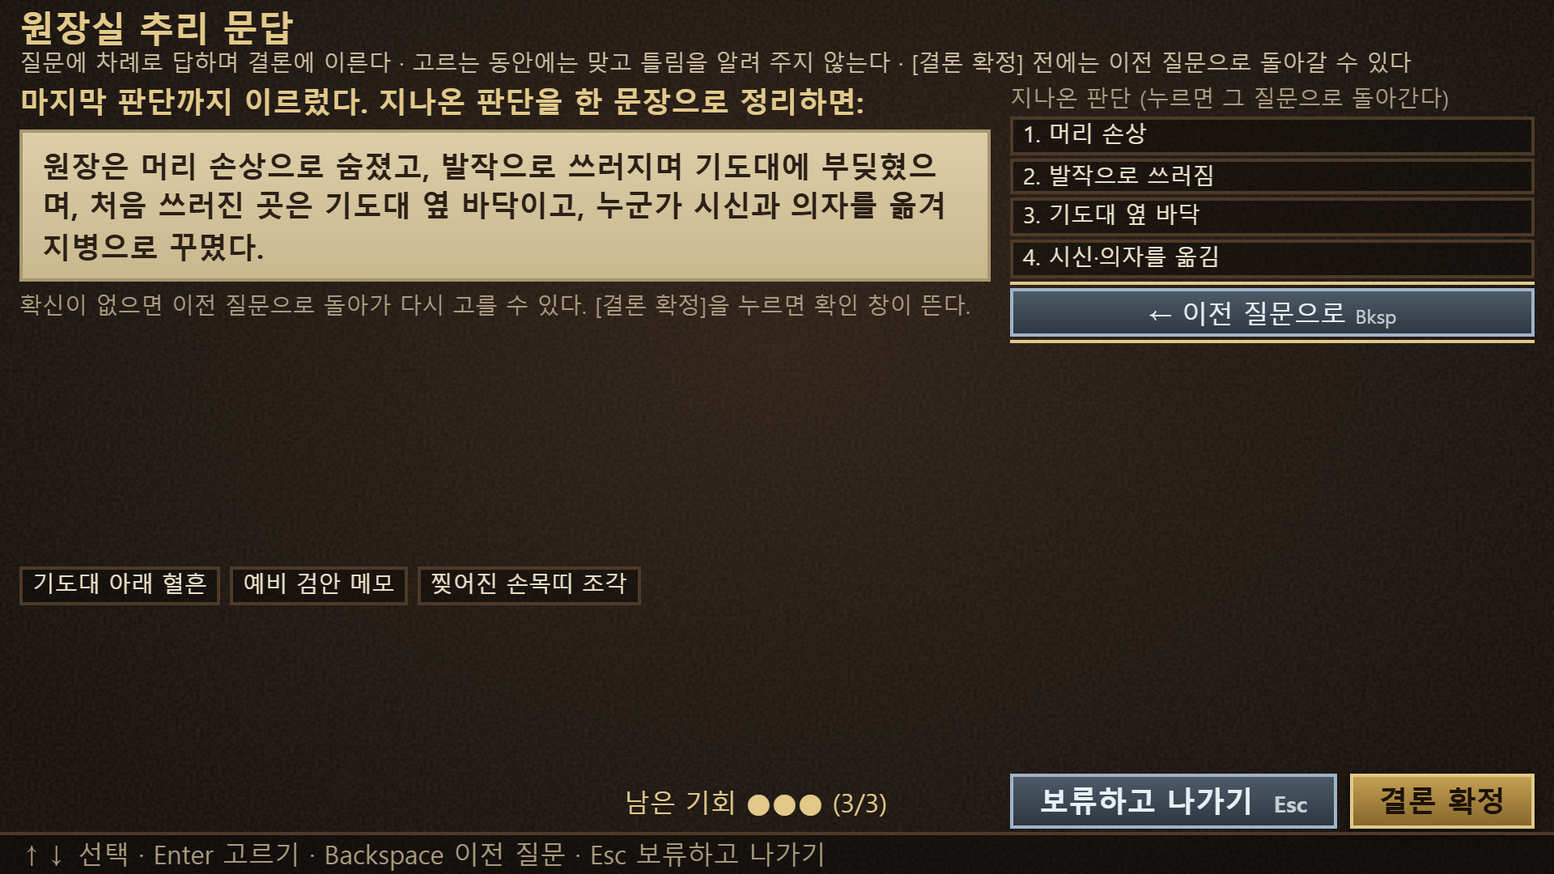
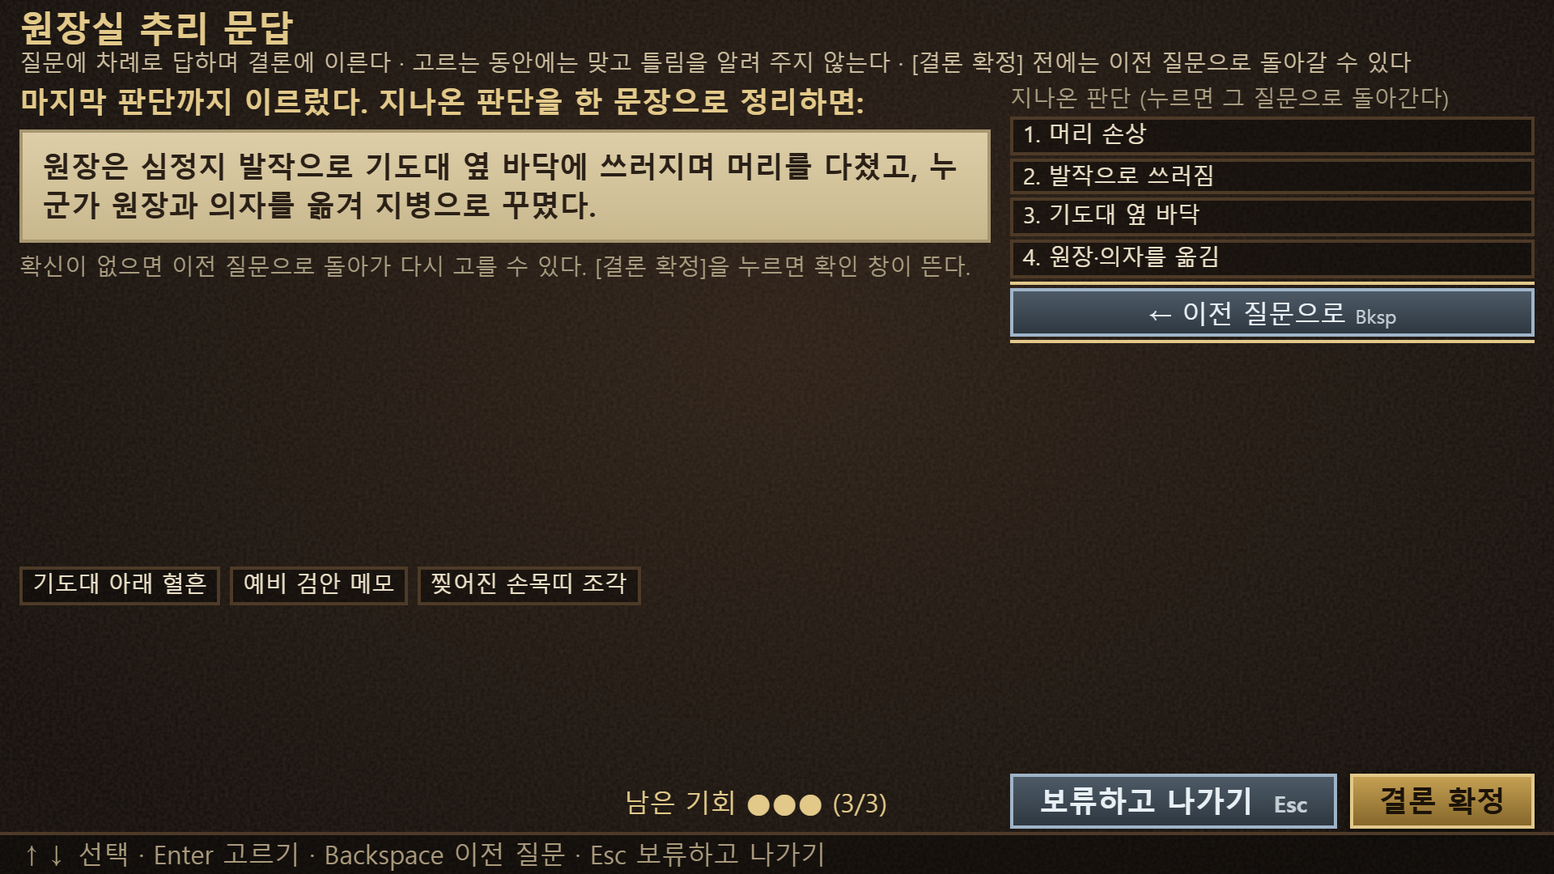
P01 "시신" 단정 제거와 결론 어순 정리, 엔딩 개수 검사(A1/B7/C12/D44)

Changed region(s): [[0.0, 0.1528, 0.7188, 0.3667]]

diff --git a/tools/test-e2e.ts b/tools/test-e2e.ts
@@ -393,12 +393,12 @@ check((await pz()).includes('질문 2.') && (await page.locator('#puzzle .qt').c
 check((await page.locator('#puzzle .warn, #puzzle .hint-t, #puzzle .ok, #puzzle .bad').count()) === 0 && !/정답|오답|맞았|틀렸/.test(await pz()), '[P01] 문답 도중에는 맞고 틀림을 알리지 않는다');
 await press('Backspace'); await wait(80);
 check((await pz()).includes('질문 1.') && (await page.locator('#puzzle .qt').count()) === 0, '[P01] Backspace(이전 질문으로)로 되돌아갈 수 있다');
-// 마우스: 틀린 길 (머리 손상 → 발작 → 기도대 옆 바닥 → 시신·의자를 옮김). 지나온 판단을 눌러 되돌아갈 수도 있다.
+// 마우스: 틀린 길 (머리 손상 → 발작 → 기도대 옆 바닥 → 원장·의자를 옮김). 지나온 판단을 눌러 되돌아갈 수도 있다.
 await page.locator('#puzzle [data-choice="c1_head"]').click(); await page.locator('#puzzle [data-choice="c2_seizure"]').click();
 await page.locator('#puzzle .qt').nth(0).click(); await wait(60);
 check((await pz()).includes('질문 1.'), '[P01] 지나온 판단(1번)을 누르면 그 질문으로 돌아간다');
 await page.locator('#puzzle [data-choice="c1_head"]').click(); await page.locator('#puzzle [data-choice="c2_seizure"]').click(); await page.locator('#puzzle [data-choice="c3_altar"]').click(); await page.locator('#puzzle [data-choice="c4_moved"]').click(); await wait(80);
-check((await page.locator('#puzzle [data-submit]:not([disabled])').count()) === 1 && (await page.locator('#puzzle .qconc').innerText()).includes('발작으로 쓰러지며') && (await page.locator('#puzzle .qconc').innerText()).includes('시신과 의자를 옮겨'), '[P01] 마지막 판단에 이르면 지나온 판단이 한 문장 결론으로 보이고 확정할 수 있다');
+check((await page.locator('#puzzle [data-submit]:not([disabled])').count()) === 1 && (await page.locator('#puzzle .qconc').innerText()).includes('심정지 발작으로') && (await page.locator('#puzzle .qconc').innerText()).includes('원장과 의자를 옮겨'), '[P01] 마지막 판단에 이르면 지나온 판단이 한 문장 결론으로 보이고 확정할 수 있다');
 await shot('stage4_p01_conclusion');
 await page.locator('#puzzle [data-submit]').click();
 check((await page.locator('#puzzle .pz-ov').innerText()).includes('이 결론을 확정할까요?') && (await page.locator('#puzzle .pz-ov').innerText()).includes('남은 기회 3/3'), '[P01] 확정 전에 확인 창: 이 결론을 확정할까요? 남은 기회 3/3');
@@ -418,7 +418,7 @@ await cw("cw.ui.puzzle('P01_scene_rebuild')"); await page.waitForSelector('#puzz
 check((await page.locator('#puzzle .qt').count()) === 4 && (await page.locator('#puzzle .pz-att').innerText()).includes('2/3'), '[P01] 다시 열면 지나온 판단과 남은 기회(2/3)가 그대로다');
 await page.mouse.move(5, 5);
 await placeCorrect(page, 'P01_scene_rebuild');
-check((await page.locator('#puzzle .qconc').innerText()).includes('몸싸움 중 밀려') && (await page.locator('#puzzle .qconc').innerText()).includes('지병으로 꾸몄다'), '[P01] 정답 길의 결론 문장');
+check((await page.locator('#puzzle .qconc').innerText()).includes('몸싸움을 하다 밀려') && (await page.locator('#puzzle .qconc').innerText()).includes('지병으로 꾸몄다'), '[P01] 정답 길의 결론 문장');
 await confirm(page);
 check(await cw<boolean>("cw.state.solvedPuzzleIds.includes('P01_scene_rebuild') && cw.state.flags.includes('flag_scene_rebuilt') && cw.state.flags.includes('puzzle_done:P01_scene_rebuild')"), '[P01] 정답 → 해결 (puzzle_done 플래그)');
 check(await cw<boolean>("cw.state.verifiedEvidenceIds.includes('E02_altar_blood') && cw.state.verifiedEvidenceIds.includes('E03_preliminary_exam')"), '[P01] 해결 → E02·E03 검증');
@@ -426,7 +426,7 @@ await press('Enter'); await cw("cw.openDialogue('mono_p01_solved')"); // (시험
 await page.waitForSelector('#dialogue');
 await wait(60); await press('Enter');
 const mid = await page.locator('#dialogue .text').innerText();
-check(mid.includes('누군가 시신을 옮겼다') && !mid.includes('정하늘'), '[P01] 중간 결론만: 누군가 시신을 옮겼다 (옮긴 사람·정하늘은 확정하지 않는다)');
+check(mid.includes('누군가 원장을 옮겼다') && !mid.includes('정하늘'), '[P01] 중간 결론만: 누군가 원장을 옮겼다 (옮긴 사람·정하늘은 확정하지 않는다)');
 await mash();
 
 await teleport(360); await wait(60); await press('Enter');
@@ -850,6 +850,11 @@ await page.locator('#report [data-tg="external"]').click(); await wait(60);
 const sum = await page.locator('#report').innerText();
 check(sum.includes('외부 수사기관에도 보고한다') && sum.includes('기도대 충돌로 인한 후두부 손상'), '[보고서] 마지막 쪽: 보고 대상 선택 + 완성된 문장으로 읽히는 미리보기');
 check(!/정답|오답|해결|엔딩|맞았|틀렸/.test(await page.locator('#report .rpaper').innerText()), '[보고서] 미리보기는 정답·해결 여부·예상 엔딩을 암시하지 않는다');
+{ const sc = await page.locator('#report .rprevfull').evaluate((e) => { const el = e as HTMLElement; const over = el.scrollHeight > el.clientHeight; el.scrollTop = 0; return { over, ch: el.clientHeight, sh: el.scrollHeight, bottom: el.getBoundingClientRect().bottom <= (el.closest('.rpaper') as HTMLElement).getBoundingClientRect().bottom }; });
+  await press('PageDown'); await press('PageDown'); await press('PageDown');
+  const end = await page.locator('#report .rprevfull').evaluate((e) => { const el = e as HTMLElement; return el.scrollTop + el.clientHeight >= el.scrollHeight - 2; });
+  check(sc.bottom && (!sc.over || end) && (await page.locator('#report .rprevfull').innerText()).includes('질문 D.'), '[보고서] 미리보기는 종이 안에 들어가고, 넘치면 스크롤되어 질문 D 까지 읽힌다'); await page.locator('#report .rprevfull').evaluate((e) => { (e as HTMLElement).scrollTop = 0; });
+  check(!/와\(과\)|\(으\)로|은\(는\)|을\(를\)/.test(await page.locator('#report .rprevfull').innerText()), '[보고서] 미리보기에 조사가 둘 다 나오지 않는다'); }
 await noIds('[씬 7] 요약');
 await page.locator('#report [data-submit]').click(); await wait(80);
 check((await page.locator('#report .rov').innerText()).includes('제출할까요'), '[보고서] 제출 전에 확인 창');

diff --git a/tools/d-shots.ts b/tools/d-shots.ts
@@ -51,7 +51,7 @@ await page.locator('#report [data-filter="record"]').click(); await wait(100); a
 await page.locator('#report [data-stamp]').click(); await wait(150); await shot('report_stamped');
 await cw(`(() => { const G = { claim_b: [['E04_wristband_fragment', 'E08_miran_revised'], ['E05_access_log']], claim_c: [['E07_report_revision', 'E08_miran_revised'], ['E06_torn_sleeve']], claim_d: [['E12_ledger', 'E14_belongings_diary'], ['E15_transport_manifest']] }; for (const [id, [sup, reb]] of Object.entries(G)) cw.saveConclusion(cw.state, id, cw.claims.find((x) => x.claimId === id).hypotheses.find((h) => h.isCorrect).id, sup, reb); })()`);
 await key('Tab'); await key('Escape'); await wait(200); // 수첩을 열었다 닫으면 보고서가 저장된 결론을 다시 읽는다
-await page.locator('#report [data-pg="4"]').click(); await wait(200); await shot2('report_submit_page');
+await page.locator('#report [data-pg="4"]').click(); await wait(200); await shot2('report_submit_page'); await page.locator('#report .rprevfull').evaluate((e) => { (e as HTMLElement).scrollTop = 9999; }); await wait(150); await shot2('report_submit_scrolled');
 await page.locator('#report [data-tg="external"]').click(); await wait(150);
 await page.locator('#report [data-submit]').click(); await wait(200); console.log('MSG', await page.locator('#report .rmsg').innerText()); await shot('report_confirm');
 await page.locator('#report [data-cf="yes"]').click(); await page.waitForSelector('#ending'); await wait(400);

diff --git a/tests/ending.test.ts b/tests/ending.test.ts
@@ -39,6 +39,13 @@ function expected(mask: number, secured: boolean, external: boolean): string {
 }
 
 describe('엔딩 64조합 (해결 16 × 보존 2 × 보고 2)', () => {
+  it('엔딩별 개수는 A 1 / B 7 / C 12 / D 44 (직접 센다)', () => {
+    const count: Record<string, number> = { ending_a: 0, ending_b: 0, ending_c: 0, ending_d: 0 };
+    let total = 0;
+    for (let mask = 0; mask < 16; mask++) for (const secured of [false, true]) for (const external of [false, true]) { count[resolveEnding(build(mask, secured, external)).id]++; total++; }
+    expect(total).toBe(64);
+    expect(count).toEqual({ ending_a: 1, ending_b: 7, ending_c: 12, ending_d: 44 });
+  });
   const tally: Record<string, number> = {};
   for (let mask = 0; mask < 16; mask++) for (const secured of [false, true]) for (const external of [false, true]) {
     it(`solved=${mask.toString(2).padStart(4, '0')} secured=${secured} external=${external}`, () => {

diff --git a/tools/validate-data.ts b/tools/validate-data.ts
@@ -155,7 +155,7 @@ for (const p of puzzles) {
       if (n.choices.length < 2) err(`${p.id}/${nid}: 선택지가 둘 이상 있어야 한다`);
       for (const c of n.choices) {
         if (c.next && !q.nodes[c.next]) err(`${p.id}/${c.id}: next ${c.next} 없음`);
-        if (!c.judge || !c.reason || !c.says || !c.short || !c.quote) err(`${p.id}/${c.id}: judge·reason·says·short·quote 필요`);
+        if (!c.judge || !c.reason || c.says === undefined || !c.short || !c.quote) err(`${p.id}/${c.id}: judge·reason·says·short·quote 필요`);
         if (!evidenceById.has(c.source) && !stmtIds.has(c.source)) err(`${p.id}/${c.id}: 출처 ${c.source} 는 단서도 진술도 아님`);
         if (!p.correctSlots.path.includes(c.id) && !c.conflict && onPath.has(nid)) err(`${p.id}/${c.id}: 정답 길의 질문에 있는 오답 선택지에는 충돌 문장이 필요하다`);
       }

diff --git a/tests/followup2.test.ts b/tests/followup2.test.ts
@@ -105,7 +105,7 @@ describe('원장실 의자 조사 → P01 이동 대상 근거', () => {
     expect(isExamined(chair(), s)).toBe(true); expect(showsSparkle(chair(), s)).toBe(false);
     expect(hasFlag(s, 'chair_checked')).toBe(true);
   });
-  it('의자 끌린 자국 선택지의 근거는 의자 관찰 카드, 마지막 판단은 시신과 의자를 옮겼다', () => {
+  it('의자 끌린 자국 선택지의 근거는 의자 관찰 카드, 마지막 판단은 원장과 의자를 옮겼다', () => {
     const p = puzzles.find((q) => q.id === 'P01_scene_rebuild')!;
     expect(p.quiz!.nodes.q4.choices.find((x) => x.id === 'c4_moved')!.source).toBe('han_o_chair');
     expect(p.correctSlots.path.at(-1)).toBe('c4_moved');

diff --git a/docs/이전계획.md b/docs/이전계획.md
@@ -465,9 +465,14 @@ ConfessionWard_v1.0_web/
 - **시험·도구**: `docs/퍼즐_근거표.md`·`tools/puzzle-evidence-table.ts` 는 조각 → 출처 → 원문 인용 구조로 바꾸고 원문 인용 검사를 유지한다(조각 라벨의 " — " 앞이 인용, "…" 로 이은 조각은 각각). 씬 점프·`buildProgress` 는 `fail: [퍼즐 ID]` 옵션으로 검증 실패 상태를 만들고, F9 디버그 메뉴에 "P05 검증 실패 상태로 씬 6"(`failP05`)을 더했다. e2e 는 새 UI(조각·바탕화면·트리·확인 창·보류·검증 실패)로, `tests/progression.test.ts` 는 "P05 검증 실패 → 정하늘 등장 → 보고서" 경로를 더했다. 퍼즐 화면 스크린샷: `tools/puzzle-shots.ts` → `docs/screenshots/c_puzzle_*.png`.
 
 ### 11.13 후속: P01 추리 문답 · 퍼즐 머리말 · P05 보류 안내 · 최종 보고서 재설계 · 다시 추리하기 (사용자 결정 2026-11-13)
-- **P01 → 추리 문답**(`layout: quiz`, `puzzles.json` 의 `quiz`): 조각을 평면도 칸에 놓던 방식(글자 맞추기)을 질문에 "판단 + 이유"로 답하는 갈래 구조로 바꿨다. 판정은 `src/core/puzzle.ts`(`quizWalk`·`isAnswerComplete`·`isCorrectAnswer`·`submitPuzzle`): 답 = path 칸에 지나온 선택지 ID 들. 마지막 판단까지 가야 [결론 확정]이 눌린다. 충돌 문장 = 처음 틀린 판단의 `conflict`(자료 이름만), 2번째 오답의 후보 제거 = `distractors[0]`(`*:c2_seizure`, 제거된 선택지를 골랐던 길은 그 질문까지 되돌린다). 결론 문장 = `subject` + 지나온 선택지의 `says`. 오답 길도 막다른 길 없이 끝난다(지병 → 위치 → 혈흔, 사인 미정 → 위치). 선택지는 모두 출처·원문 인용이 있고 `docs/퍼즐_근거표.md` 자동 검사에 걸린다. 질문 4개 + 오답 갈래 3개. 무작위 3번 안에 정답 결론에 이를 확률 2.72%(첫 시도 0.93%, 목표 5% 미만).
+- **P01 → 추리 문답**(`layout: quiz`, `puzzles.json` 의 `quiz`): 조각을 평면도 칸에 놓던 방식(글자 맞추기)을 질문에 "판단 + 이유"로 답하는 갈래 구조로 바꿨다. 판정은 `src/core/puzzle.ts`(`quizWalk`·`isAnswerComplete`·`isCorrectAnswer`·`submitPuzzle`): 답 = path 칸에 지나온 선택지 ID 들. 마지막 판단까지 가야 [결론 확정]이 눌린다. 충돌 문장 = 처음 틀린 판단의 `conflict`(자료 이름만), 2번째 오답의 후보 제거 = `distractors[0]`(`*:c2_seizure`, 제거된 선택지를 골랐던 길은 그 질문까지 되돌린다). 결론 문장 = `subject` + 지나온 선택지의 `says`. 오답 길도 막다른 길 없이 끝난다(지병 → 위치 → 혈흔, 사인 미정 → 위치). 선택지는 모두 출처·원문 인용이 있고 `docs/퍼즐_근거표.md` 자동 검사에 걸린다. 질문 4개 + 오답 갈래 3개. 정답 결론은 “원장은 누군가와 몸싸움을 하다 밀려 기도대 옆 바닥에 쓰러지며 머리를 다쳤고, 누군가 원장과 의자를 옮겨 지병으로 꾸몄다.”(“시신”으로 단정하지 않는다, 사용자 결정 2026-11-13). 무작위 3번 안에 정답 결론에 이를 확률 2.72%(첫 시도 0.93%, 목표 5% 미만).
 - **퍼즐 머리말**: 안내 문구(`info`)를 제목 아래 한 줄로 내려 줄바꿈되게 했다(`.ptitle` / `.psub` 는 block, 본문 영역 top 26 px·height 146 px).
 - **P05 보류 안내**: P05 를 보류하고 나가면 처음 한 번 독백(`mono_p05_hold`: "이 장부를 정리하기 전에는 여기서 더 알아낼 수 없다…")으로 알리고, 지하에서 계단으로 올라가려 할 때 P05 가 미결이면 같은 독백을 한 번 더 보여 준다(올라가는 것은 막지 않는다). 플래그 `p05_hold_seen`·`p05_stairs_seen`.
 - **최종 보고서 재설계**(`src/ui/report.ts`): 종이 한 장에 질문 하나(위쪽 탭 A~D + 보고 대상·제출), 가설은 문장 빈칸(`claims.json` 의 `stem`)에서 후보 문장 목록으로 고르고, 근거 2칸·예상 반론 1칸에 왼쪽 단서 서랍의 카드를 끌어다(또는 클릭·키보드로) 꽂는다. 카드는 유형(물증·기록·증언) 모양이 다르고, 미검증·검증 실패·맥락 단서는 꽂히지 않고 이유만 한 줄로 보인다. 질문마다 [작성 완료 도장]이 `saveConclusion` 으로 결론을 저장한다(정답 여부와 무관). 마지막 쪽은 보고 대상 + 완성된 문장 미리보기 + 제출 확인 창. 판정 규칙(이전계획 8장)과 `DeductionResolver`·`EndingResolver` 는 그대로다. 수첩의 질문 탭은 그대로 두고 같은 상태를 읽고 쓴다.
   - **기존 결함 수정**: P05 가 검증 실패면 질문 D 가 열리지 않는데 예전 보고서는 네 질문 모두 저장해야 제출할 수 있어 막혔다. 지금은 열린 질문만 도장을 요구하고 열리지 않은 질문은 비워 둔 채 제출된다.
 - **다시 추리하기**(`ExploreScene.retryReport`): 모든 엔딩 끝에 "다시 추리하기"가 있고, 같은 수사 상태(단서·검증 상태·퍼즐 검증 실패·증거 보존 선택 그대로)로 이전 결론이 채워진 보고서가 다시 열린다. 해결하지 못한 질문과 관련된 단서는 서랍·수첩에서 먼저 보인다. 엔딩 D 전용이던 "보고서 다시 쓰기"(씬 7 시작 시점 되돌리기)는 이것으로 합쳤다. 다시 제출한 결과는 플레이 기록(개발용, `PlayLog.reports`)에 회차별로 남는다.
+
+### 11.14 후속 정리 (사용자 결정 2026-11-13)
+- **조사 고르기**: `src/core/josa.ts` 의 `josa(word, kind)`·`withJosa`·`fixJosa` (받침 유무, ㄹ 받침은 "로", 「」·‘’·따옴표·괄호는 건너뜀, 숫자·알파벳 끝 처리). `fmtName`(화면에 내는 모든 문장)과 퍼즐 충돌 문장이 데이터의 "은(는)·와(과)·(으)로" 표기를 하나로 고쳐 내고, 보고서 미리보기는 `josa` 로 직접 붙인다. 단위 테스트 `tests/josa.test.ts`.
+- **보고서 미리보기**: 제출 쪽을 세로 flex 로 바꿔 미리보기가 남는 높이를 모두 쓰고 넘치면 스크롤된다(마우스 휠·PageUp/PageDown, "더 있다" 안내).
+- **엔딩 개수 검사**: `tests/ending.test.ts` 가 64조합의 엔딩별 개수 A 1 / B 7 / C 12 / D 44 를 직접 센다.

diff --git a/docs/퍼즐_근거표.md b/docs/퍼즐_근거표.md
@@ -6,7 +6,7 @@
 
 결론 기회 3번. 정답 길: c1_head → c2_fight → c3_altar → c4_moved
 
-정답 결론: 원장은 머리 손상으로 숨졌고, 몸싸움 중 밀려 기도대에 부딪혔으며, 처음 쓰러진 곳은 기도대 옆 바닥이고, 누군가 시신과 의자를 옮겨 지병으로 꾸몄다.
+정답 결론: 원장은 누군가와 몸싸움을 하다 밀려 기도대 옆 바닥에 쓰러지며 머리를 다쳤고, 누군가 원장과 의자를 옮겨 지병으로 꾸몄다.
 
 | 질문 | 선택지 (판단 — 이유) | 정답? | 출처 | 원문 인용 | 틀렸을 때 충돌 문장 |
 |---|---|---|---|---|---|
@@ -20,15 +20,15 @@
 | q3 원장이 처음 쓰러진 곳은 어디인가? | 기도대 옆 바닥 — 예비 검안이 발견 위치를 그렇게 적었다. | 정답 길 | E03_preliminary_exam | “발견 위치: 기도대 옆 바닥” |  |
 | q3 원장이 처음 쓰러진 곳은 어디인가? | 책상 의자 — 백선우는 의자에 앉은 채 발견됐다고 했다. | 오답 | baek_s_natural | “집무실 의자에 앉으신 채 발견됐고” | 「예비 검안 메모」의 발견 위치와 맞지 않는다. |
 | q3 원장이 처음 쓰러진 곳은 어디인가? | 책상 앞 바닥 — 손목띠 조각이 책상 아래에서 나왔다. | 오답 | E04_wristband_fragment | “원장 책상 아래에서 나온 찢어진 환자 손목띠 조각” | 「기도대 아래 혈흔」은(는) 이 위치와 맞지 않는다. |
-| q4 그런데 “의자에 앉은 채 발견됐다”는 설명은 어떻게 된 것인가? | 누군가 시신과 의자를 옮겨 놓았다 — 의자 다리 아래 바닥이 기도대 쪽에서부터 길게 긁혀 있다. | 정답 길 | han_o_chair | “의자 다리 아래 바닥이 기도대 쪽에서부터 길게 긁혀 있다” |  |
+| q4 그런데 “의자에 앉은 채 발견됐다”는 설명은 어떻게 된 것인가? | 누군가 원장과 의자를 옮겨 놓았다 — 의자 다리 아래 바닥이 기도대 쪽에서부터 길게 긁혀 있다. | 정답 길 | han_o_chair | “의자 다리 아래 바닥이 기도대 쪽에서부터 길게 긁혀 있다” |  |
 | q4 그런데 “의자에 앉은 채 발견됐다”는 설명은 어떻게 된 것인가? | 원장이 스스로 의자까지 가서 앉았다 — 예비 검안은 “미약 호흡”을 적었다. | 오답 | E03_preliminary_exam | “의식없음, 미약 호흡” | 「예비 검안 메모」의 “의식없음” 기록과 맞지 않는다. |
 | q4 그런데 “의자에 앉은 채 발견됐다”는 설명은 어떻게 된 것인가? | 백선우가 발견 위치를 착각했다 — 예비 검안과 백선우의 진술이 가리키는 위치가 다르다. | 오답 | baek_s_natural | “집무실 의자에 앉으신 채 발견됐고” | 의자 아래 바닥의 긁힌 자국({player}의 관찰)과 맞지 않는다. |
 | qa1 원장은 어디서 숨졌나? | 책상 의자 — 백선우는 의자에 앉은 채 발견됐다고 했다. | 오답 | baek_s_natural | “집무실 의자에 앉으신 채 발견됐고” |  |
 | qa1 원장은 어디서 숨졌나? | 기도대 옆 바닥 — 예비 검안이 발견 위치를 그렇게 적었다. | 오답 | E03_preliminary_exam | “발견 위치: 기도대 옆 바닥” |  |
 | qa2 그렇다면 기도대 아래 혈흔은 어떻게 설명하나? | 쓰러지며 다쳐서 생긴 흔적이다 — 후두부 열상과 출혈 흔적이 기록돼 있다. | 오답 | E03_preliminary_exam | “후두부 열상 및 출혈 흔적” |  |
 | qa2 그렇다면 기도대 아래 혈흔은 어떻게 설명하나? | 아직 이유를 알 수 없다 — 닦이지 않은 혈흔이 남아 있을 뿐이다. | 오답 | E02_altar_blood | “놋쇠 기도대 받침 아래에 닦이지 않은 혈흔이 남아 있다” |  |
-| qu1 그렇다면 원장의 시신은 처음 어디에 있었나? | 책상 의자 — 백선우는 의자에 앉은 채 발견됐다고 했다. | 오답 | baek_s_natural | “집무실 의자에 앉으신 채 발견됐고” |  |
-| qu1 그렇다면 원장의 시신은 처음 어디에 있었나? | 기도대 옆 바닥 — 예비 검안이 발견 위치를 그렇게 적었다. | 오답 | E03_preliminary_exam | “발견 위치: 기도대 옆 바닥” |  |
+| qu1 그렇다면 원장은 처음 어디에 있었나? | 책상 의자 — 백선우는 의자에 앉은 채 발견됐다고 했다. | 오답 | baek_s_natural | “집무실 의자에 앉으신 채 발견됐고” |  |
+| qu1 그렇다면 원장은 처음 어디에 있었나? | 기도대 옆 바닥 — 예비 검안이 발견 위치를 그렇게 적었다. | 오답 | E03_preliminary_exam | “발견 위치: 기도대 옆 바닥” |  |
 
 ## P02 야간 동선 시간 배열 (씬 4)
 

diff --git a/docs/기획서_보정판.md b/docs/기획서_보정판.md
@@ -338,8 +338,8 @@
 1. 원장의 직접 사인은? — 정답: 머리 손상 (후두부 열상). 오답: 지병(백선우의 말), 아직 정할 수 없다(예비 검안은 “미약 호흡”, 백선우는 사망이라 함).
 2. 원장은 왜 머리를 다쳤나? — 정답: 누군가와 몸싸움을 하다 밀려 기도대에 부딪혔다(책상 아래 찢어진 손목띠 조각). 오답: 심정지 발작으로 쓰러짐, 기도하다 미끄러짐, 의자에 앉은 채 쓰러짐.
 3. 원장이 처음 쓰러진 곳은? — 정답: 기도대 옆 바닥. 오답: 책상 의자, 책상 앞 바닥.
-4. “의자에 앉은 채 발견됐다”는 설명은? — 정답: 누군가 시신과 의자를 옮겨 놓았다(의자 끌린 자국). 오답: 원장이 스스로 의자까지 갔다, 백선우가 착각했다.
-- 정답 결론: “원장은 머리 손상으로 숨졌고, 몸싸움 중 밀려 기도대에 부딪혔으며, 처음 쓰러진 곳은 기도대 옆 바닥이고, 누군가 시신과 의자를 옮겨 지병으로 꾸몄다.”
+4. “의자에 앉은 채 발견됐다”는 설명은? — 정답: 누군가 원장과 의자를 옮겨 놓았다(의자 끌린 자국). 오답: 원장이 스스로 의자까지 갔다, 백선우가 착각했다.
+- 정답 결론: “원장은 누군가와 몸싸움을 하다 밀려 기도대 옆 바닥에 쓰러지며 머리를 다쳤고, 누군가 원장과 의자를 옮겨 지병으로 꾸몄다.” (예비 검안에 “미약 호흡”이 있고 구조 지연은 P03 에서 밝혀지므로 P01 에서는 “시신”이라고 단정하지 않는다. 결론 문장은 지나온 선택지의 문장 조각을 사인·경위·위치·은폐 순서로 이은 것이다.)
 - 1번에서 지병·미정을 고르면 위치·혈흔을 묻는 다른 질문으로 이어진다.
 
 **오답 선택지 원칙**: 실제 단서 하나에 기대어 그럴듯해야 하고 다른 단서와 부딪혀야 한다. 단서가 말해 주지 않는 것을 단정하는 선택지는 넣지 않는다. 질문마다 묻는 것은 하나(사인·경위·위치·은폐)다. “누구인가”는 묻지 않는다(2층에서 정하늘을 만나며 밝혀진다). 독살·약물 선택지는 넣지 않는다.
